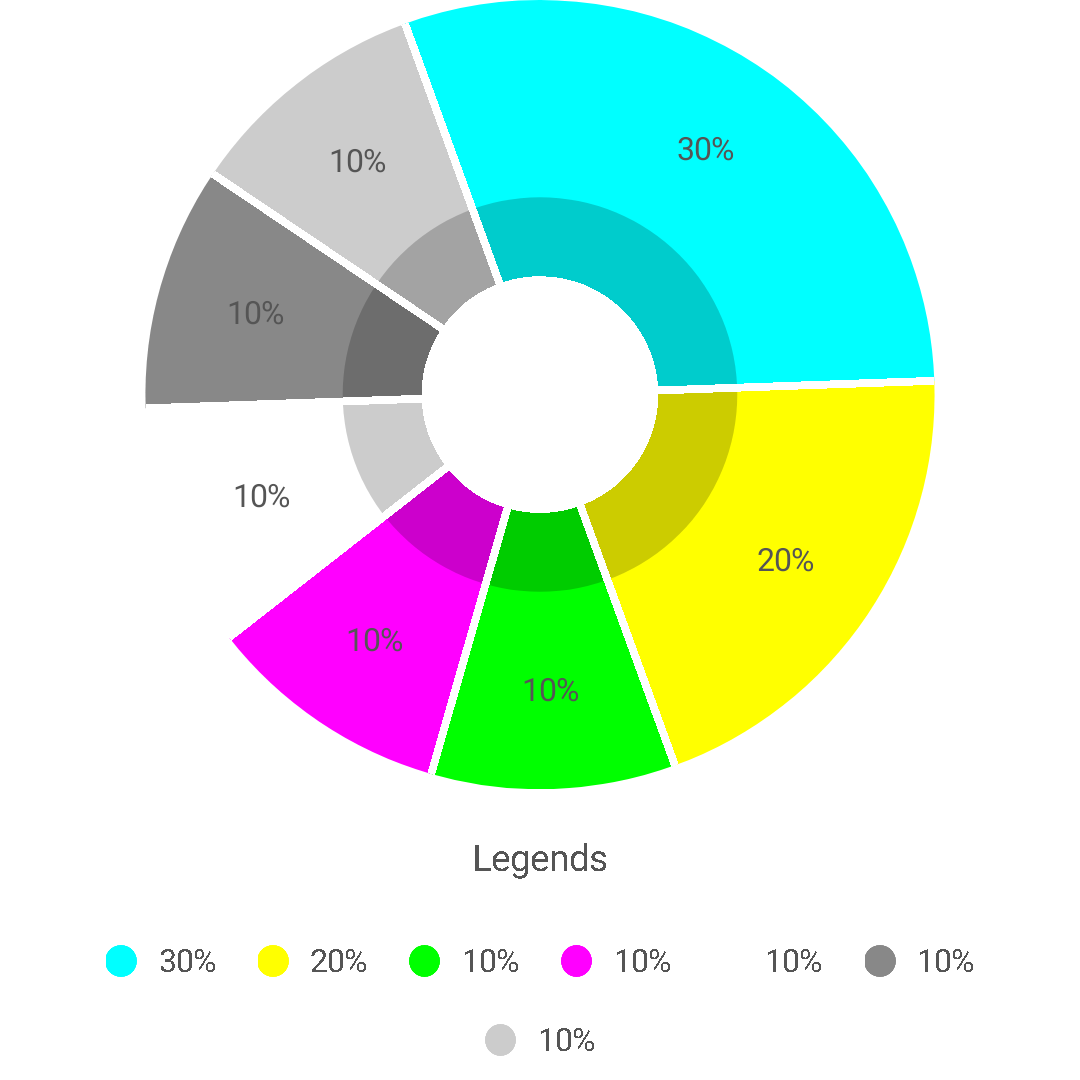
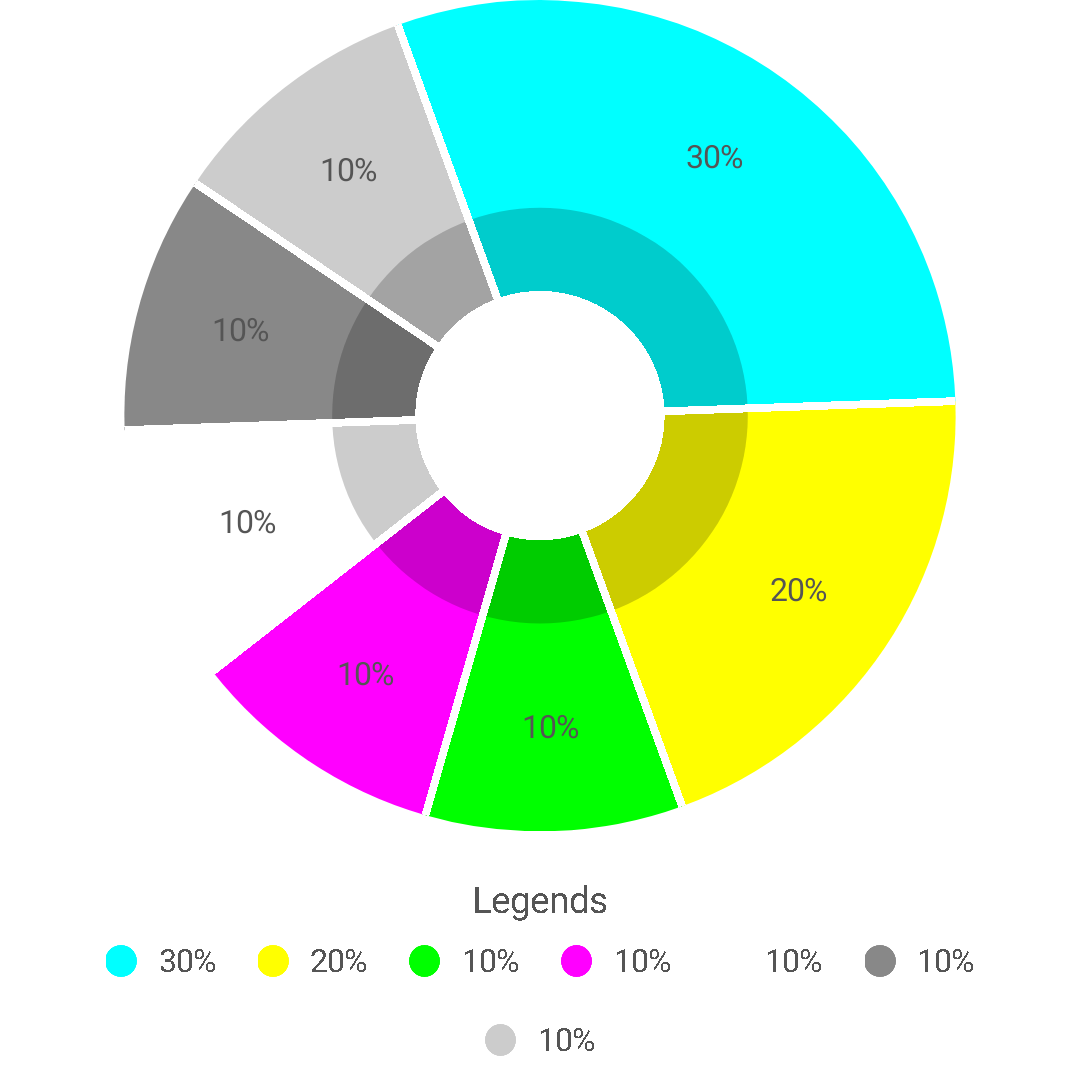
Improve and Refactor Container class
Specifically, the code responsible for wrapping the components

diff --git a/piechart/src/main/kotlin/ir/mahozad/android/component/Container.kt b/piechart/src/main/kotlin/ir/mahozad/android/component/Container.kt
@@ -26,67 +26,72 @@ internal class Container(
     legendLinesMargin: Float = 0f
 ) : Box {
 
+    override val width by lazy { min(calculateWidth(), maxAvailableWidth) }
+    override val height by lazy { min(calculateHeight(), maxAvailableHeight) }
     private var internalChildren = children
     private var internalLayoutDirection = layoutDirection
+    private val bounds = RectF(0f, 0f, 0f, 0f)
+    private val borderBounds = RectF(0f, 0f, 0f, 0f)
+    private val paint = Paint(ANTI_ALIAS_FLAG)
 
     init {
-        if (wrapping == WRAP) {
-            if (children.size > 1 && layoutDirection == LayoutDirection.HORIZONTAL) {
+        if (wrapping == WRAP && children.size > 1) {
+            if (layoutDirection == LayoutDirection.HORIZONTAL) {
                 val width = calculateRowWidth(children, border, paddings)
-                if (width > maxAvailableWidth) {
+                if (width - maxAvailableWidth > 0.001) {
                     internalLayoutDirection = LayoutDirection.VERTICAL
                     val rows = mutableListOf<Box>()
                     val row = mutableListOf<Box>()
                     for (child in children) {
                         row.add(child)
                         val rowWidth = calculateRowWidth(row, border, paddings)
-                        if (rowWidth > maxAvailableWidth) {
+                        if (rowWidth - maxAvailableWidth > 0.001) {
                             if (row.size > 1) {
                                 val removed = row.removeLast()
-                                val container = Container(row.toList()/*clone*/, maxAvailableWidth, maxAvailableHeight, layoutDirection, childrenAlignment, wrapping, Margins(top = legendLinesMargin), paddings, background)
+                                val container = Container(row.toList()/*clone*/, maxAvailableWidth, maxAvailableHeight, layoutDirection, childrenAlignment, wrapping, Margins(bottom = legendLinesMargin))
                                 rows.add(container)
 
                                 row.clear()
                                 row.add(removed)
                             } else {
-                                val container = Container(row.toList()/*clone*/, maxAvailableWidth, maxAvailableHeight, layoutDirection, childrenAlignment, wrapping, Margins(top = legendLinesMargin), paddings, background)
+                                val container = Container(row.toList()/*clone*/, maxAvailableWidth, maxAvailableHeight, layoutDirection, childrenAlignment, wrapping, Margins(bottom= legendLinesMargin))
                                 rows.add(container)
                                 row.clear()
                             }
                         }
                     }
                     if (row.isNotEmpty()) {
-                        val container = Container(row, maxAvailableWidth, maxAvailableHeight, layoutDirection, childrenAlignment, wrapping, Margins(top = legendLinesMargin), paddings, background)
+                        val container = Container(row, maxAvailableWidth, maxAvailableHeight, layoutDirection, childrenAlignment, wrapping)
                         rows.add(container)
                     }
                     internalChildren = rows
                 }
-            } else if (children.size > 1 && layoutDirection == LayoutDirection.VERTICAL) {
+            } else if (layoutDirection == LayoutDirection.VERTICAL) {
                 val height = calculateColumnHeight(children, border, paddings)
-                if (height > maxAvailableHeight) {
+                if (height - maxAvailableHeight > 0.001) {
                     internalLayoutDirection = LayoutDirection.HORIZONTAL
                     val columns = mutableListOf<Box>()
                     val column = mutableListOf<Box>()
                     for (child in children) {
                         column.add(child)
                         val columnHeight = calculateColumnHeight(column, border, paddings)
-                        if (columnHeight > maxAvailableHeight) {
+                        if (columnHeight - maxAvailableHeight > 0.001) {
                             if (column.size > 1) {
                                 val removed = column.removeLast()
-                                val container = Container(column.toList()/*clone*/, maxAvailableWidth, maxAvailableHeight, layoutDirection, childrenAlignment, wrapping, Margins(top = legendLinesMargin), paddings, background)
+                                val container = Container(column.toList()/*clone*/, maxAvailableWidth, maxAvailableHeight, layoutDirection, childrenAlignment, wrapping, Margins(end = legendLinesMargin))
                                 columns.add(container)
 
                                 column.clear()
                                 column.add(removed)
                             } else {
-                                val container = Container(column.toList()/*clone*/, maxAvailableWidth, maxAvailableHeight, layoutDirection, childrenAlignment, wrapping, Margins(top = legendLinesMargin), paddings, background)
+                                val container = Container(column.toList()/*clone*/, maxAvailableWidth, maxAvailableHeight, layoutDirection, childrenAlignment, wrapping, Margins(end = legendLinesMargin))
                                 columns.add(container)
                                 column.clear()
                             }
                         }
                     }
                     if (column.isNotEmpty()) {
-                        val container = Container(column, maxAvailableWidth, maxAvailableHeight, layoutDirection, childrenAlignment, wrapping, Margins(top = legendLinesMargin), paddings, background)
+                        val container = Container(column, maxAvailableWidth, maxAvailableHeight, layoutDirection, childrenAlignment, wrapping)
                         columns.add(container)
                     }
                     internalChildren = columns
@@ -96,40 +101,37 @@ internal class Container(
         }
     }
 
-    override val width by lazy { min(calculateWidth(), maxAvailableWidth) }
-    override val height by lazy { min(calculateHeight(), maxAvailableHeight) }
-    private val bounds = RectF(0f, 0f, 0f, 0f)
-    private val borderBounds = RectF(0f, 0f, 0f, 0f)
-    private val paint = Paint(ANTI_ALIAS_FLAG)
-
-    private fun calculateWidth(): Float {
-        if (internalChildren.isEmpty()) {
-            return (border?.thickness ?: 0f) * 2 + (paddings?.horizontal ?: 0f)
-        }
-        return if (internalLayoutDirection == LayoutDirection.HORIZONTAL) {
-            internalChildren.sumOf { it.width.toDouble() }.toFloat() +
-                    (border?.thickness ?: 0f) * 2 +
-                    // Sum of all the collapsing margins between each pair of children
-                    internalChildren.zipWithNext { a, b -> max(a.margins?.end ?: 0f, b.margins?.start ?: 0f) }.sum() +
-                    max(paddings?.start ?: 0f, internalChildren.first().margins?.start ?: 0f) +
-                    max(paddings?.end ?: 0f, internalChildren.last().margins?.end ?: 0f)
+    private fun calculateWidth() =
+        if (internalLayoutDirection == LayoutDirection.HORIZONTAL) {
+            calculateRowWidth(internalChildren, border, paddings)
         } else {
-            internalChildren.maxOf {
+            internalChildren.maxOfOrNull {
                 it.width +
                         (border?.thickness ?: 0f) * 2 +
                         max(paddings?.start ?: 0f, it.margins?.start ?: 0f) +
                         max(paddings?.end ?: 0f, it.margins?.end ?: 0f)
-            }
+            } ?: ((border?.thickness ?: 0f) * 2 + (paddings?.horizontal ?: 0f))
         }
-    }
+
+    private fun calculateHeight() =
+        if (internalLayoutDirection == LayoutDirection.VERTICAL) {
+            calculateColumnHeight(internalChildren, border, paddings)
+        } else {
+            internalChildren.maxOfOrNull {
+                it.height +
+                        (border?.thickness ?: 0f) * 2 +
+                        max(paddings?.top ?: 0f, it.margins?.top ?: 0f) +
+                        max(paddings?.bottom ?: 0f, it.margins?.bottom ?: 0f)
+            } ?: ((border?.thickness ?: 0f) * 2 + (paddings?.vertical ?: 0f))
+        }
 
     private fun calculateRowWidth(row: List<Box>, border: Border?, paddings: Paddings?): Float {
         return row.sumOf { it.width.toDouble() }.toFloat() +
                 (border?.thickness ?: 0f) * 2 +
                 // Sum of all the collapsing margins between each pair of children
                 row.zipWithNext { a, b -> max(a.margins?.end ?: 0f, b.margins?.start ?: 0f) }.sum() +
-                max(paddings?.start ?: 0f, row.first().margins?.start ?: 0f) +
-                max(paddings?.end ?: 0f, row.last().margins?.end ?: 0f)
+                max(paddings?.start ?: 0f, row.firstOrNull()?.margins?.start ?: 0f) +
+                max(paddings?.end ?: 0f, row.lastOrNull()?.margins?.end ?: 0f)
     }
 
     private fun calculateColumnHeight(column: List<Box>, border: Border?, paddings: Paddings?): Float {
@@ -137,29 +139,8 @@ internal class Container(
                 (border?.thickness ?: 0f) * 2 +
                 // Sum of all the collapsing margins between each pair of children
                 column.zipWithNext { a, b -> max(a.margins?.bottom ?: 0f, b.margins?.top ?: 0f) }.sum() +
-                max(paddings?.top ?: 0f, column.first().margins?.top ?: 0f) +
-                max(paddings?.bottom ?: 0f, column.last().margins?.bottom ?: 0f)
-    }
-
-    private fun calculateHeight(): Float {
-        if (internalChildren.isEmpty()) {
-            return ((border?.thickness ?: 0f) * 2) + (paddings?.vertical ?: 0f)
-        }
-        return if (internalLayoutDirection == LayoutDirection.HORIZONTAL) {
-            internalChildren.maxOf {
-                it.height +
-                        (border?.thickness ?: 0f) * 2 +
-                        max(paddings?.top ?: 0f, it.margins?.top ?: 0f) +
-                        max(paddings?.bottom ?: 0f, it.margins?.bottom ?: 0f)
-            }
-        } else {
-            internalChildren.sumOf { it.height.toDouble() }.toFloat() +
-            (border?.thickness ?: 0f) * 2 +
-            // Sum of all the collapsing margins between each pair of children
-                    internalChildren.zipWithNext { a, b -> max(a.margins?.bottom ?: 0f, b.margins?.top ?: 0f) }.sum() +
-            max(paddings?.top ?: 0f, internalChildren.first().margins?.top ?: 0f) +
-            max(paddings?.bottom ?: 0f, internalChildren.last().margins?.bottom ?: 0f)
-        }
+                max(paddings?.top ?: 0f, column.firstOrNull()?.margins?.top ?: 0f) +
+                max(paddings?.bottom ?: 0f, column.lastOrNull()?.margins?.bottom ?: 0f)
     }
 
     override fun layOut(top: Float, start: Float, drawDirection: DrawDirection) {

diff --git a/piechart/src/androidTest/kotlin/ir/mahozad/android/component/ContainerTest.kt b/piechart/src/androidTest/kotlin/ir/mahozad/android/component/ContainerTest.kt
@@ -2,13 +2,13 @@ package ir.mahozad.android.component
 
 import ir.mahozad.android.component.LayoutDirection.HORIZONTAL
 import org.assertj.core.api.Assertions.assertThat
+import org.assertj.core.util.FloatComparator
 import org.junit.jupiter.api.DisplayName
 import org.junit.jupiter.api.TestInstance
 import org.junit.jupiter.api.TestInstance.Lifecycle.PER_CLASS
 import org.junit.jupiter.params.ParameterizedTest
 import org.junit.jupiter.params.provider.Arguments.arguments
 import org.junit.jupiter.params.provider.MethodSource
-import kotlin.math.absoluteValue
 
 /**
  * The *@TestInstance* annotation is used an an alternative to
@@ -36,12 +36,10 @@ class ContainerTest {
 
         val container = Container(children, maxAvailableWidth, maxAvailableHeight, layoutDirection, childrenAlignment, wrapping, border = border, paddings = paddings)
 
-        assertThat(container.width)
-            .usingComparator { f1, f2 -> if ((f1 - f2).absoluteValue < 0.001) 0 else 1 }
-            .isEqualTo(expectedWidth)
-        assertThat(container.height)
-            .usingComparator { f1, f2 -> if ((f1 - f2).absoluteValue < 0.001) 0 else 1 }
-            .isEqualTo(expectedHeight)
+        assertThat(Pair(container.width, container.height))
+            .usingRecursiveComparison()
+            .withComparatorForFields(FloatComparator(0.001f), Pair<Any, Any>::first.name, Pair<Any, Any>::second.name)
+            .isEqualTo(Pair(expectedWidth, expectedHeight))
     }
 
     @Suppress("unused")
@@ -106,8 +104,10 @@ class ContainerTest {
         arguments(listOf(MockBox(34f, 25f), MockBox(9f, 30f)), 100f, 84f, HORIZONTAL, Wrapping.WRAP, Paddings(10f, 8f, 10f, 15f), Border(14f), listOf(96f, 76f)),
         /* TWO child HORIZONTAL, WRAP, with ARBITRARY margin which is SMALLER than available width; ARBITRARY padding and ARBITRARY border */
         arguments(listOf(MockBox(34f, 25f, margins = Margins(top = 11f, bottom = 1f, start = 1f, end = 1f)), MockBox(9f, 25f, margins = Margins(2f))), 100f, 84f, HORIZONTAL, Wrapping.WRAP, Paddings(10f, 8f, 10f, 15f), Border(14f), listOf(98f, 72f)),
-        // /* TWO child HORIZONTAL, WRAP, with ARBITRARY margin which is LARGER than available width; ARBITRARY padding and ARBITRARY border */
-        // arguments(listOf(MockBox(34f, 25f, margins = Margins(top = 11f, bottom = 1f, start = 1f, end = 1f)), MockBox(12f, 24f, margins = Margins(2f))), 100f, 100f, HORIZONTAL, Wrapping.Wrap, Paddings(10f, 8f, 10f, 15f), Border(14f), listOf(87f, 96f)),
+        /* TWO child HORIZONTAL, WRAP, with ARBITRARY margin which is LARGER than available width; ARBITRARY padding and ARBITRARY border */
+        arguments(listOf(MockBox(34f, 25f, margins = Margins(top = 11f, bottom = 1f, start = 3f, end = 1f)), MockBox(12f, 24f, margins = Margins(2f))), 100f, 120f, HORIZONTAL, Wrapping.WRAP, Paddings(10f, 8f, 10f, 15f), Border(14f), listOf(91f, 111f)),
+        /* TWO child HORIZONTAL, WRAP, with ARBITRARY margin which is SAME SIZE as available width; ARBITRARY padding and ARBITRARY border */
+        arguments(listOf(MockBox(33f, 24f, margins = Margins(top = 11f, bottom = 1f, start = 1f, end = 1f)), MockBox(12f, 24f, margins = Margins(2f))), 100f, 120f, HORIZONTAL, Wrapping.WRAP, Paddings(10f, 8f, 10f, 15f), Border(14f), listOf(100f, 71f)),
         // /* THREE child HORIZONTAL, WRAP, with ARBITRARY margin which is SMALLER than available width; ARBITRARY padding and ARBITRARY border */
         // arguments(listOf(MockBox(4f, 25f, margins = Margins(1f)), MockBox(2f, 24f, margins = Margins(top = 9f, bottom = 10f, start = 9f, end = 9f)), MockBox(21f, 24f, margins = Margins(2f))), 100f, 84f, HORIZONTAL, Wrapping.Wrap, Paddings(10f, 8f, 10f, 15f), Border(14f), listOf(98f, 72f)),
         // /* THREE child HORIZONTAL, WRAP, with ARBITRARY margin which is LARGER than available width; ARBITRARY padding and ARBITRARY border */
